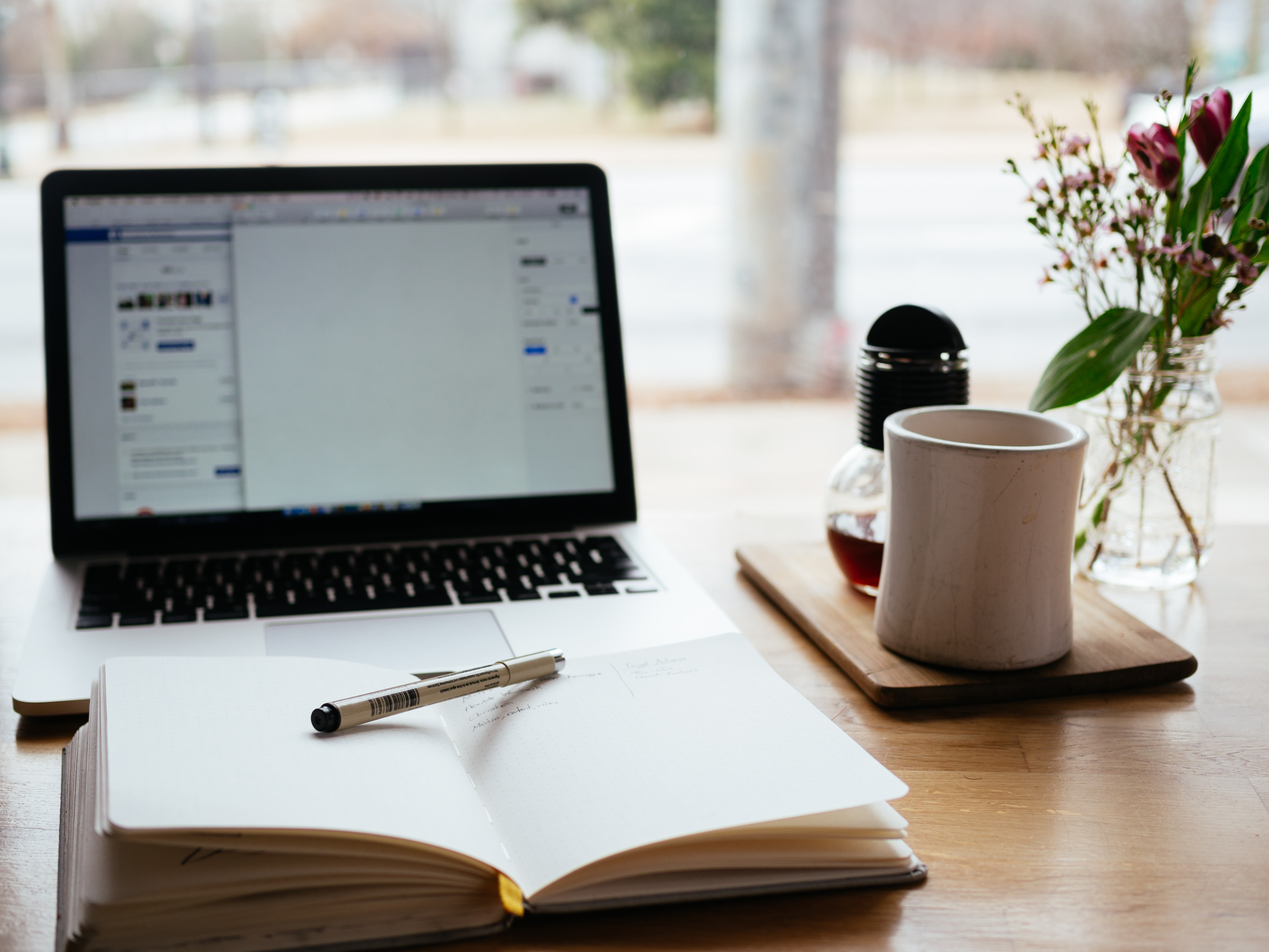
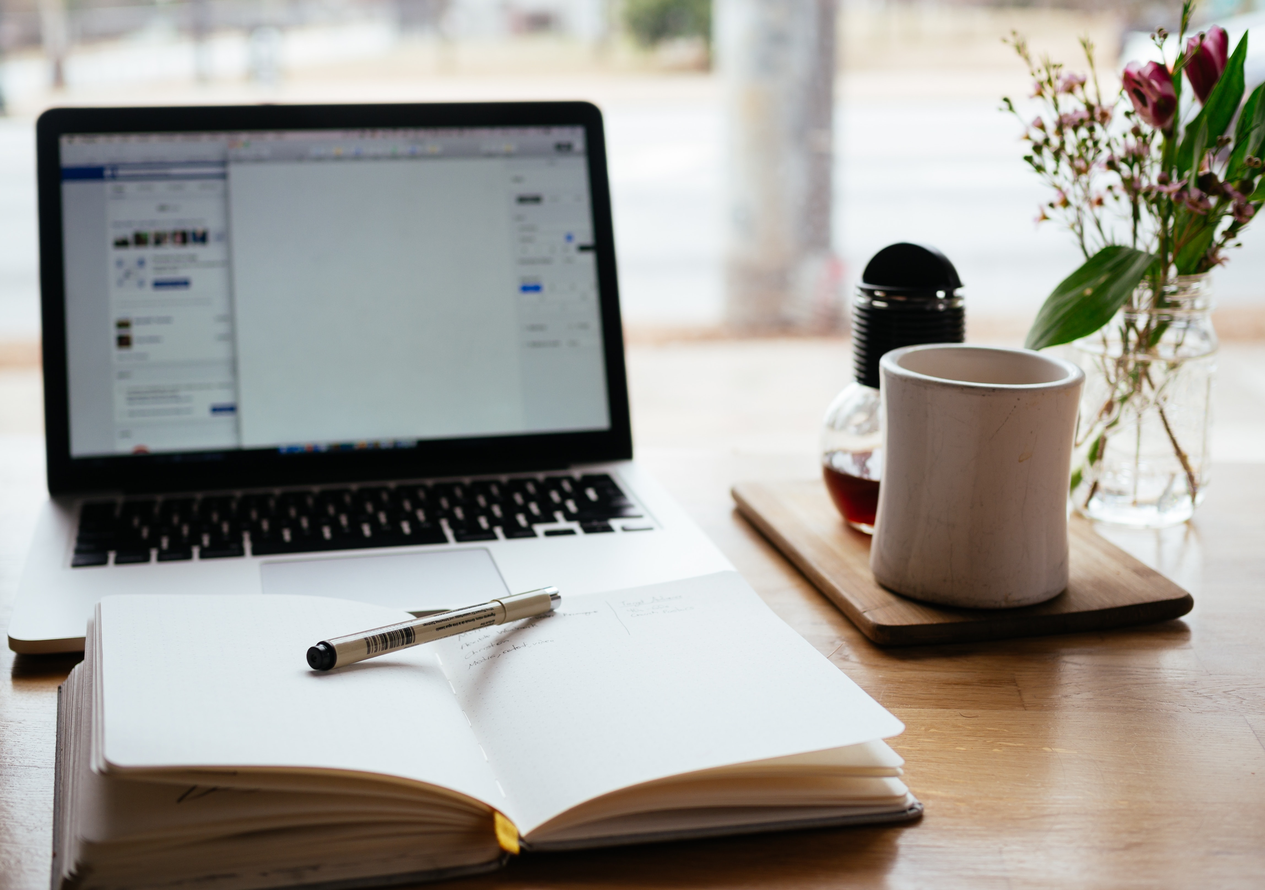
projects update

diff --git a/public/project/mcc-registry/index.html b/public/project/mcc-registry/index.html
@@ -28,7 +28,7 @@
   
     
   
-  <meta name="description" content="MCC Patient Registry.">
+  <meta name="description" content="Developing a multi-institutional Patient Registry.">
 
   
   <link rel="alternate" hreflang="en-us" href="/project/mcc-registry/">
@@ -114,7 +114,7 @@
   <meta property="og:site_name" content="The Miller Lab">
   <meta property="og:url" content="/project/mcc-registry/">
   <meta property="og:title" content="Merkel Cell Carcinoma Patient Registry | The Miller Lab">
-  <meta property="og:description" content="MCC Patient Registry."><meta property="og:image" content="/project/mcc-registry/featured.jpg">
+  <meta property="og:description" content="Developing a multi-institutional Patient Registry."><meta property="og:image" content="/project/mcc-registry/featured.jpg">
   <meta property="twitter:image" content="/project/mcc-registry/featured.jpg"><meta property="og:locale" content="en-us">
   
     
@@ -168,7 +168,7 @@
       "url": "/img/TML-logo.png"
     }
   },
-  "description": "MCC Patient Registry."
+  "description": "Developing a multi-institutional Patient Registry."
 }
 </script>
 
@@ -588,7 +588,11 @@
   <div class="article-container">
 
     <div class="article-style">
-      <p>MCC-Registry Testing</p>
+      
+
+<h1 id="overview">Overview</h1>
+
+<p>We are working with <a href="https://www.projectdatasphere.org/projectdatasphere/html/home" target="_blank">Project Data Sphere</a> to develop a multi-institutional registry for patients with <a href="https://www.merkelcellcarcinoma.io" target="_blank">Merkel Cell Carcinaom</a></p>
 
     </div>
 

diff --git a/public/project/biomarkers/index.html b/public/project/biomarkers/index.html
@@ -576,10 +576,10 @@
 </div>
 
 
-<div class="article-header article-container featured-image-wrapper mt-4 mb-4" style="max-width: 720px; max-height: 540px;">
+<div class="article-header article-container featured-image-wrapper mt-4 mb-4" style="max-width: 720px; max-height: 507px;">
   <div style="position: relative">
-    <img src="/project/biomarkers/featured_hu3d03a01dcc18bc5be0e67db3d8d209a6_1316676_720x0_resize_q90_lanczos.jpg" alt="" class="featured-image">
-    
+    <img src="/project/biomarkers/featured_hua95f8ca2b4bc7ff491b658c696c347b6_1340352_720x0_resize_q90_lanczos.jpg" alt="" class="featured-image">
+    <span class="article-header-caption">Photo by Nick Morrison on Unsplash</span>
   </div>
 </div>
 
@@ -590,7 +590,9 @@
     <div class="article-style">
       
 
-<h1 id="predictive-and-prognostic-biomarkers-of-response">Predictive and Prognostic Biomarkers of Response</h1>
+<h1 id="overview">Overview</h1>
+
+<p>We are investigating why patients respond - or fail to respond - to cancer therapies</p>
 
     </div>
 

diff --git a/public/project/regulatory-medicine/index.html b/public/project/regulatory-medicine/index.html
@@ -526,7 +526,7 @@
 <div class="article-header article-container featured-image-wrapper mt-4 mb-4" style="max-width: 720px; max-height: 720px;">
   <div style="position: relative">
     <img src="/project/regulatory-medicine/featured_hu3d03a01dcc18bc5be0e67db3d8d209a6_612022_720x0_resize_q90_lanczos.jpg" alt="" class="featured-image">
-    
+    <span class="article-header-caption">Photo by Adam Nieścioruk on Unsplash</span>
   </div>
 </div>
 
@@ -537,7 +537,9 @@
     <div class="article-style">
       
 
-<h1 id="the-evolving-landscape-of-regulatory-medicine">The Evolving Landscape Of Regulatory Medicine</h1>
+<h1 id="overview">Overview</h1>
+
+<p>We are evaluating the evolving landscape of regulatory medicine in Cutaneous Oncology and Dermatology</p>
 
     </div>
 

diff --git a/public/index.html b/public/index.html
@@ -1052,7 +1052,7 @@
     
     
     <a href="/project/biomarkers/"  class="card-image hover-overlay">
-      <img src="/project/biomarkers/featured_hu3d03a01dcc18bc5be0e67db3d8d209a6_1316676_550x0_resize_q90_lanczos.jpg" alt="" class="img-responsive">
+      <img src="/project/biomarkers/featured_hua95f8ca2b4bc7ff491b658c696c347b6_1340352_550x0_resize_q90_lanczos.jpg" alt="" class="img-responsive">
     </a>
     
     <div class="card-text">
@@ -1145,7 +1145,7 @@
       <h4><a href="/project/mcc-registry/" >Merkel Cell Carcinoma Patient Registry</a></h4>
       
       <div class="article-style">
-        <p>MCC Patient Registry.</p>
+        <p>Developing a multi-institutional Patient Registry.</p>
       </div>
       
     </div>

diff --git a/public/project/index.html b/public/project/index.html
@@ -448,7 +448,7 @@
     <h2><a href="/project/mcc-registry/">Merkel Cell Carcinoma Patient Registry</a></h2>
     <div class="article-style">
       
-      MCC Patient Registry.
+      Developing a multi-institutional Patient Registry.
       
     </div>
   </div>

diff --git a/public/tags/patient-registries/index.html b/public/tags/patient-registries/index.html
@@ -430,7 +430,7 @@
     <h2><a href="/project/mcc-registry/">Merkel Cell Carcinoma Patient Registry</a></h2>
     <div class="article-style">
       
-      MCC Patient Registry.
+      Developing a multi-institutional Patient Registry.
       
     </div>
   </div>

diff --git a/content/project/mcc-registry/index.md b/content/project/mcc-registry/index.md
@@ -10,7 +10,7 @@ links:
   name: Follow
   url: https://twitter.com/Dave_M_miller
 slides: example
-summary: MCC Patient Registry.
+summary: Developing a multi-institutional Patient Registry.
 tags:
 - Patient Registries
 title: Merkel Cell Carcinoma Patient Registry
@@ -20,4 +20,5 @@ url_slides: ""
 url_video: ""
 ---
 
-MCC-Registry Testing
+# Overview
+We are working with [Project Data Sphere](https://www.projectdatasphere.org/projectdatasphere/html/home) to develop a multi-institutional registry for patients with [Merkel Cell Carcinaom](https://www.merkelcellcarcinoma.io)

diff --git a/content/project/regulatory-medicine/index.md b/content/project/regulatory-medicine/index.md
@@ -2,7 +2,7 @@
 date: "2016-04-27T00:00:00Z"
 external_link: 
 image:
-  caption: 
+  caption: Photo by Adam Nieścioruk on Unsplash
   focal_point: Smart
 summary: Evaluating the evolving landscape of regulatory medicine in Cutaneous Oncology and Dermatology
 tags:
@@ -10,4 +10,5 @@ tags:
 title: Evolving Landscape of Regulatory Medicine
 ---
 
-# The Evolving Landscape Of Regulatory Medicine
+# Overview
+We are evaluating the evolving landscape of regulatory medicine in Cutaneous Oncology and Dermatology

diff --git a/content/project/biomarkers/index.md b/content/project/biomarkers/index.md
@@ -2,7 +2,7 @@
 date: "2019-04-27T00:00:00Z"
 external_link: ""
 image:
-  caption:  
+  caption: Photo by Nick Morrison on Unsplash
   focal_point: Smart
 links:
 - icon: twitter
@@ -20,4 +20,5 @@ url_slides: ""
 url_video: ""
 ---
 
-# Predictive and Prognostic Biomarkers of Response
+# Overview
+We are investigating why patients respond - or fail to respond - to cancer therapies
